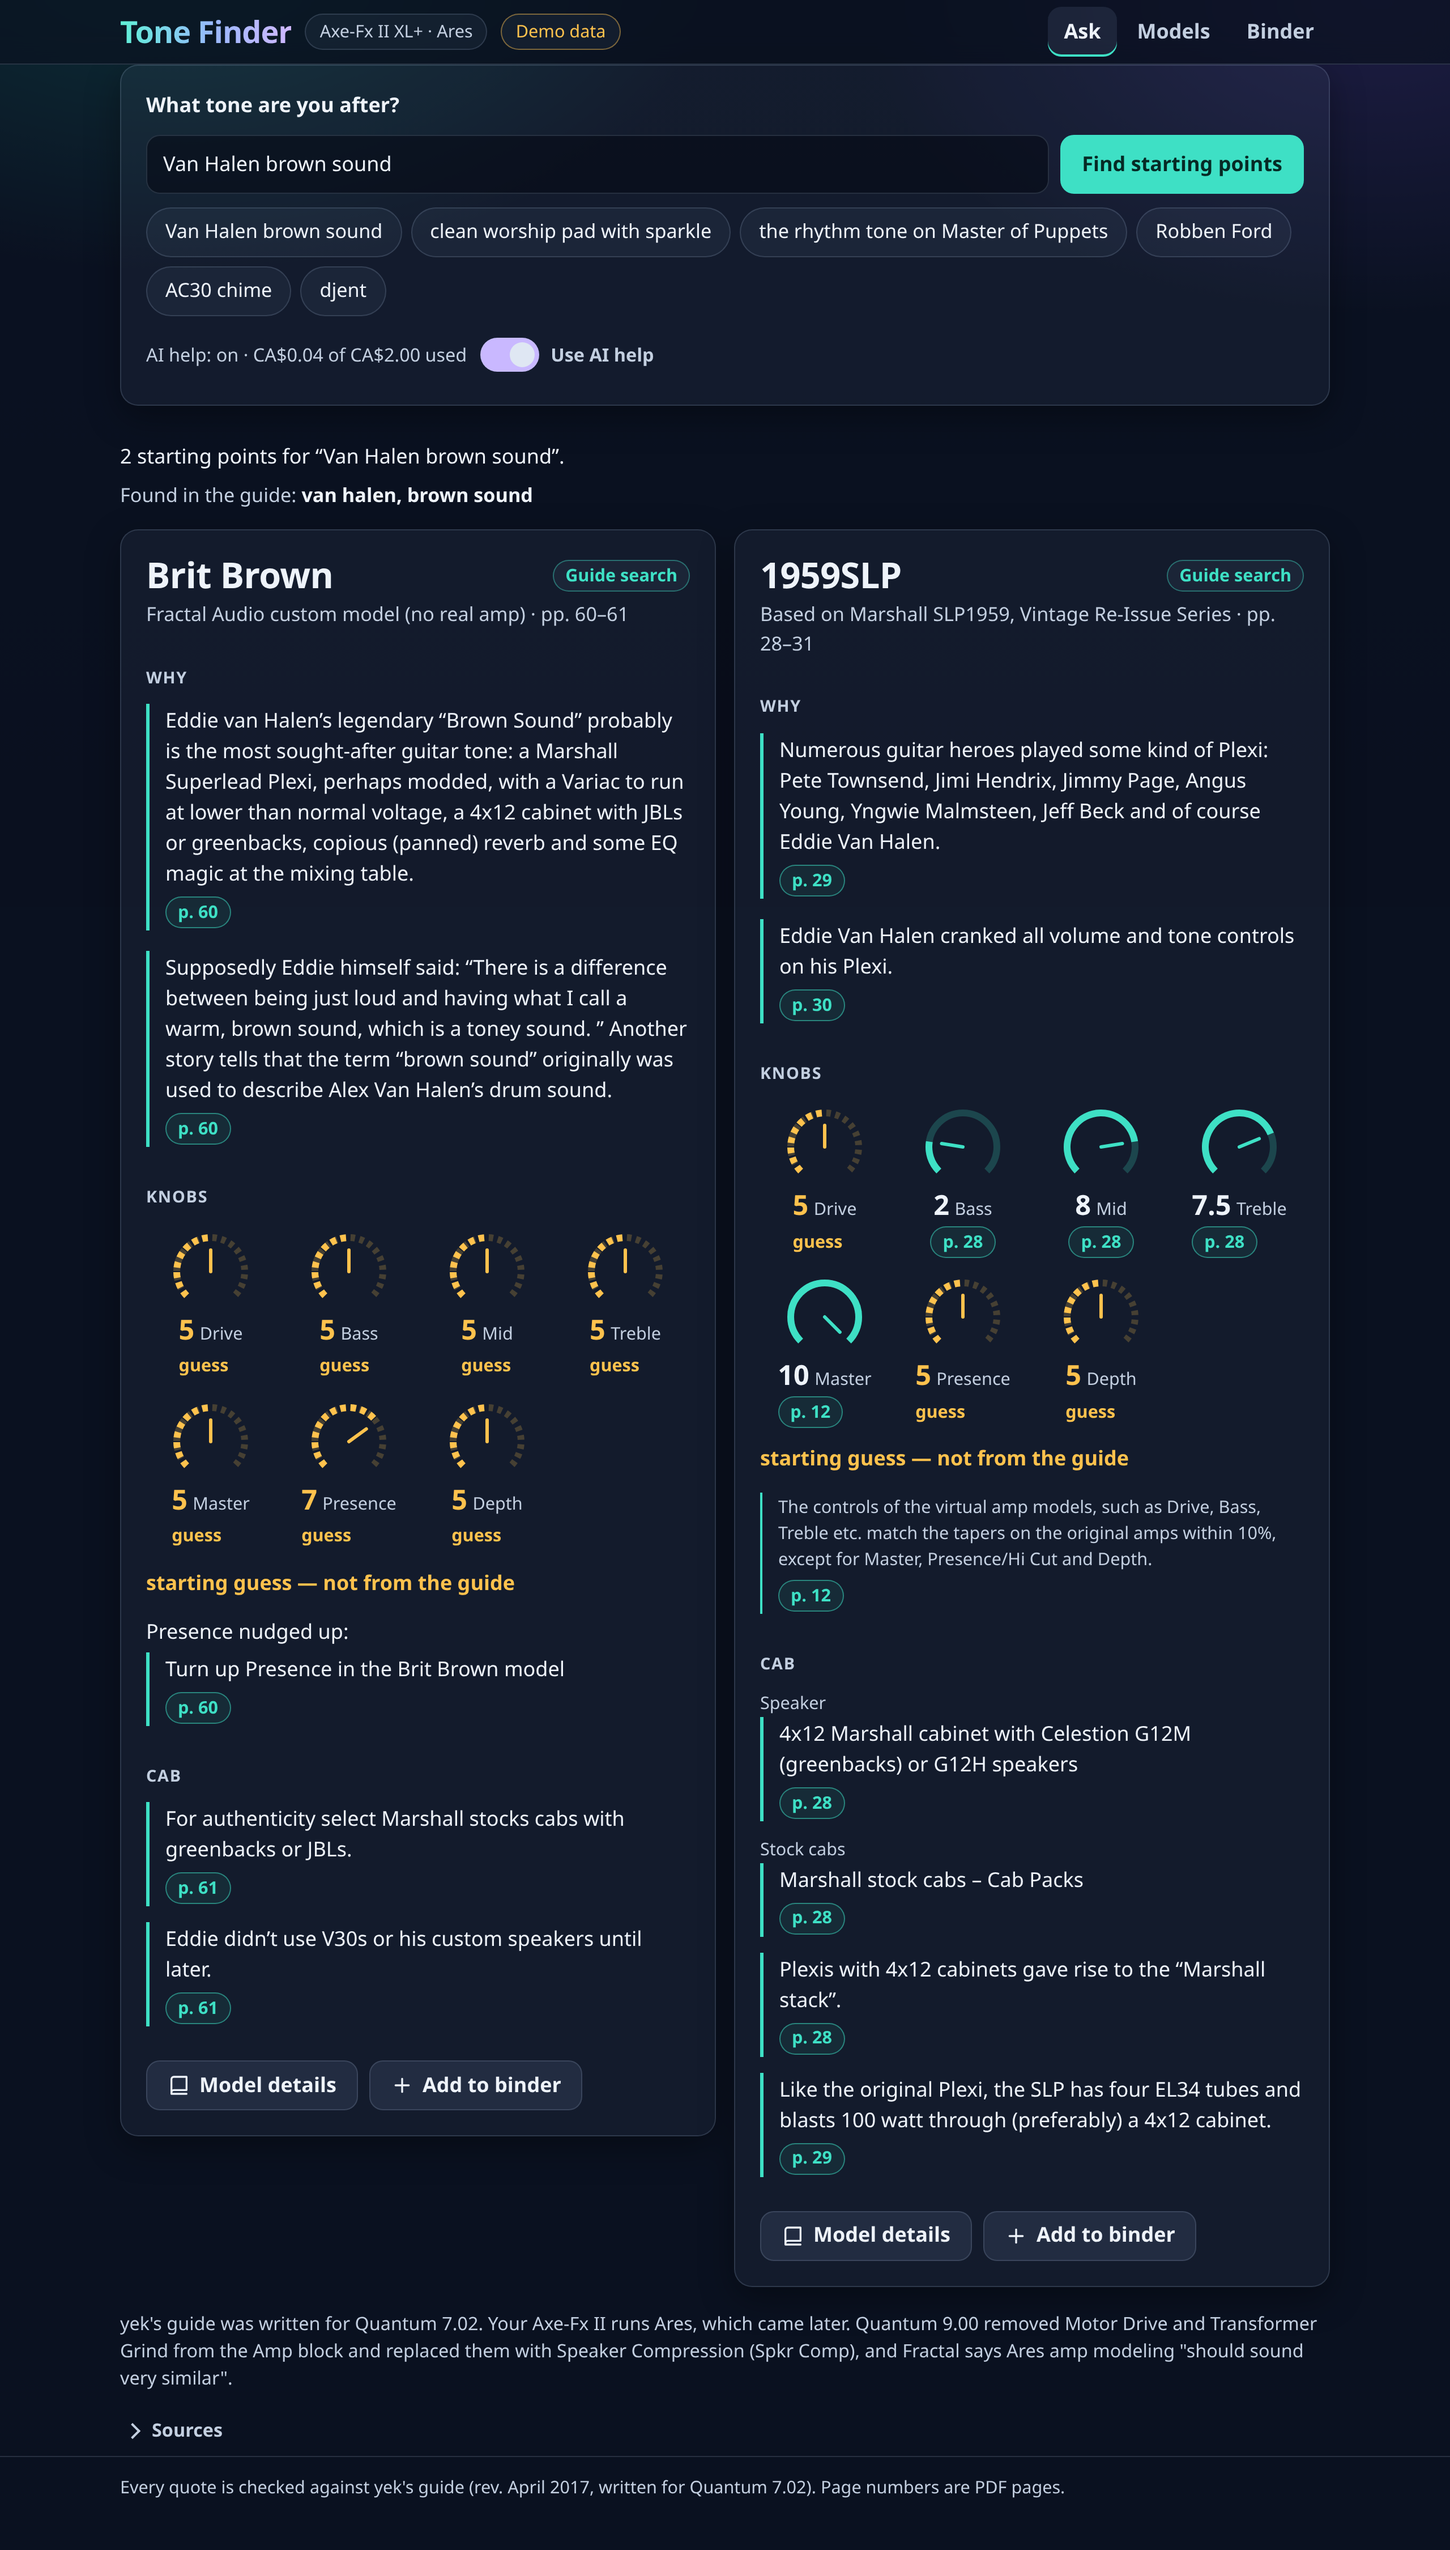
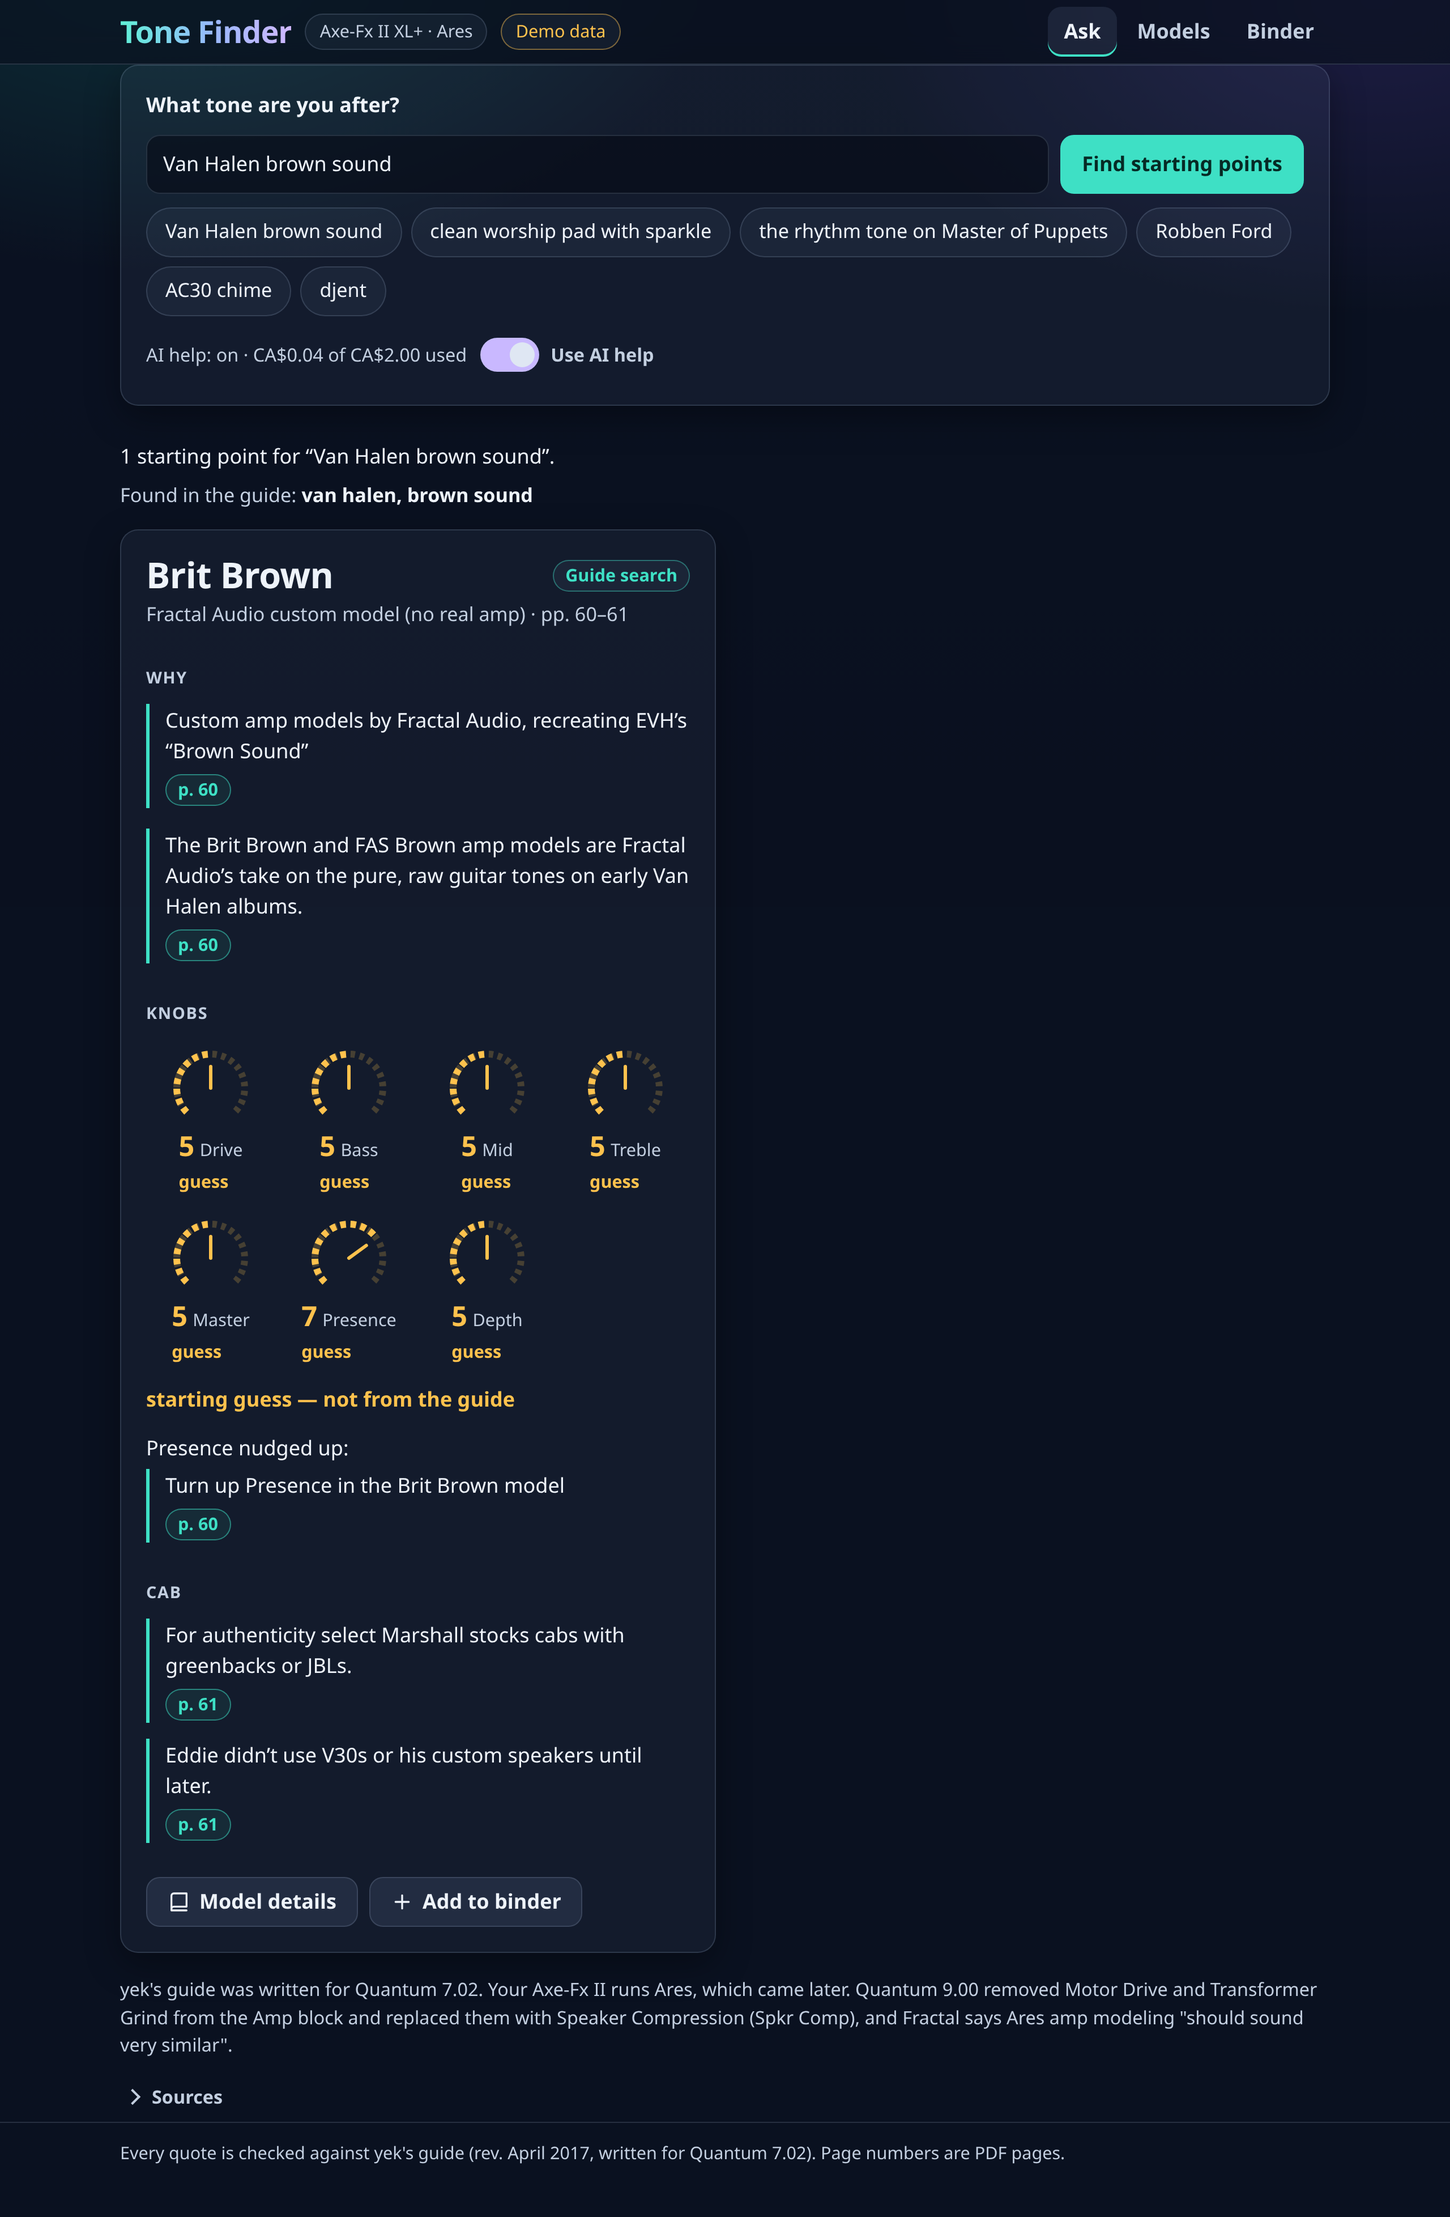
Round 4: shots retaken, build report
Suite at 5296419: 183 passed, 117 skipped (port 8311; 8301 was held by the lead's demo). The report
records that 5296419 was first committed by a gate that could not see a run that never started,
the rerun, the four round-4 controls, and what the shots show.

Claude-Session: https://claude.ai/code/session_014edFnS9XyCBL98uPHad7K9

diff --git a/docs/build-report-tf2.md b/docs/build-report-tf2.md
@@ -1,9 +1,54 @@
 # Build report — tf2 (app)
 
-**mock ready, rebuilt from real data** — `app/mock/models.json` is main's `data/models.json` (at `89677e3`,
-byte-identical models array), and `app/mock/answers.json` holds canned Answers built from it. **Round 3 done (A–D).
-Stopped.** When tf1's next data lands, rebuild with
-`git show main:data/models.json > <scratch> && node app/tools/build-mock.mjs --models <scratch>`.
+**Round 4 done. Stopped.** `app/mock/models.json` is identical to `data/models.json` (merged main `e6a53b1`), and
+`app/mock/answers.json` is generated by `core/answer.js`. To rebuild after any data change:
+`node app/tools/build-mock.mjs` (defaults to `data/models.json`; checks the local guide's sha first).
+
+## Round 4
+
+Commits: merge of main (fast-forward to `e6a53b1`) · round 4 code and fixtures `5296419` · shots + report (this
+commit).
+
+**Suite at `5296419`, from my own clean worktree, chromium + webkit at 390 and 1280: 183 passed, 117 skipped**
+(the skips are by design: run-once data and server specs, the phone spec on desktop, and the live spec). These are
+not QA numbers; I didn't run `rig qa`.
+
+**Two things went wrong on the way, both mine:**
+- **I committed before any test ran.** `5296419` was committed by a script whose gate only looked for a
+  "N failed" line. That run never started, because port 8301 was held by the lead's `npm run demo`
+  (`scripts/demo.mjs` in the main checkout, pid 3992648), so there was no "failed" line and the gate passed. The
+  four negative controls in that script were void for the same reason. I didn't touch the demo. I reran everything
+  on port **8311** (`TF_APP_PORT=8311`; unassigned, not a QA port) with a gate that requires a "passed" line and no
+  startup error. The numbers above and the controls below come from that rerun, on the same commit with no changes.
+- **Port 8311 is outside the ports table.** The app's port is 8301, but it was taken by the lead's demo, and 8311 is
+  nobody's.
+
+| Item | What changed | Status |
+|---|---|---|
+| 1 | `git merge main`. `build-mock.mjs` now imports `checkQuote` (core/verify), `spansBoxBreak` with `sectionTitles(data)` and `cleanCut` (core/text, core/models), `pagesSha256` (core/guide) and `loadPages` (core/tests/guide-node). My copy `app/tools/guide-text.mjs` is deleted. The builder refuses to run if the local guide's sha ≠ `models.json`'s, and lists every stored or shown quote that doesn't verify, spans a box break, isn't a clean cut, or ends with an attribution. `quotes.spec.mjs` keeps its checks and runs them with core's functions: the §4.2 table, the offsets on all 301 pages, and every fixture quote (verified, no box break, no attribution tail, clean cut). It adds one check: with section titles, the guide has more box breaks than without, so the header and page-number breaks are live. | DONE |
+| 2 | Canned answers come from `core/answer.js` (AI off): Van Halen brown sound, clean worship pad with sparkle, Robben Ford, djent, JTM 45 (guide knobs + a Bass-down nudge), Plexi crunch ("PLEXI 100W" shows "Guide section: Plexi models (Marshall Plexi)"), and AC30 chime. Hand-made on top of engine output: (a) Master of Puppets AI on, via `guideAnswer` with `extraTerms ['metallica', 'mark iic+']`, an `ai_checked` USA IIC+ pick built by `buildSuggestion` with the engine's own p. 270 "Metallica’s IIC+" citation, general knowledge, and drops `Brown Sound Deluxe` / `USA IIC+, p. 12`; AI off is the engine's no-support answer. (b) The planted SAMPLE Ares flag on the AC30 card. The no-support template is the engine's answer for "banjo through a toaster". Tests updated to the real answers: Robben Ford's first card is ODS-100; the guide-dial check uses Brit JM45; the header test uses Brit Brown, Brit JM45 and Plexi crunch. My earlier "AC30 chime" note is moot: the engine picks unit "Class-A 30W" and its own why quote. | DONE |
+| 3 | The planted flag is `where: "why"` with `page` = the AC30 card's first why quote's page (107). Shape rule: `page` must be an integer for why / settings / direction and null for ai. In the UI the SAMPLE flag carries "Test sample from the demo data — not a guide quote.", a dashed amber edge, and "flagged on the quote from p. 107". | DONE |
+| 4 | Every query in `answers.json` now has both `on` and `off` Answers, with no nulls. `api.mock.js` falls back to the other variant when one is missing or null, and with AI off never shows `ai.used` or general knowledge. `shape.spec` reports a null variant as a failure instead of skipping it. | DONE |
+| 5 | Suite green (above), shots retaken and looked at (below), report updated. | DONE |
+
+### Negative controls, round 4 (on 8311; each made red once, restored with `git checkout`, rerun green)
+
+| Break | Test | Red with | Restored |
+|---|---|---|---|
+| AC30 why flag `page` set to null | every fixture answer has the §6 Answer shape | `ares_flags[0].page: must be the flagged quote's page for where "why"` | green |
+| djent `off` variant set to null | same | `"djent" (off): missing Answer (null)` | green |
+| test-sample label text removed from `card.js` | Ares: planted flag callout… (chromium-390) | `Expected "Test sample from the demo data — not a guide quote." Received "Mentioned in this suggestion."` | green |
+| the glued 1959SLP tip planted in `models.json` (kept from round 3) | every quote in app/mock/models.json verifies, spans no box break… (now core's `spansBoxBreak`) | `$.models[6].tips[4] p. 28: Or just crank everything, like Eddie Van Halen “My settings…` | green |
+
+### What the round 4 shots showed
+
+- **`ask-results-390` and `-1280`:** the engine gives Van Halen brown sound one card, Brit Brown. Its why quotes
+  are the synopsis "Custom amp models by Fractal Audio, recreating EVH’s “Brown Sound”" (p. 60) and "The Brit Brown
+  and FAS Brown amp models are Fractal Audio’s take on the pure, raw guitar tones on early Van Halen albums." (p. 60).
+  The card also has seven dashed guess dials, "Presence nudged up" with its p. 60 quote, and two p. 61 cab notes;
+  every quote is a teal-edged blockquote with single marks. At 1280 the second column is empty because there is one
+  card.
+- **`model-detail-390`:** unchanged from round 3, which is expected since 1959SLP's data is the same. Byte-identical file.
 
 ## Round 3
 
